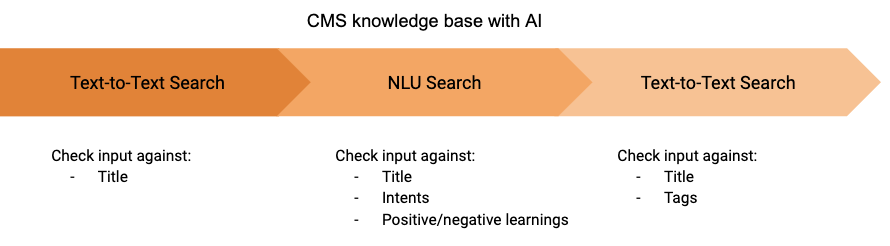
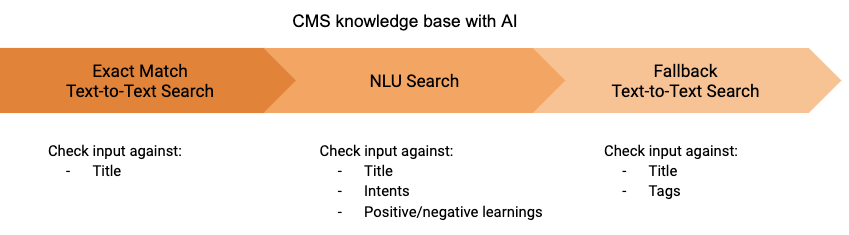
Update copy and images

diff --git a/pages/Documents/ConversationalAI/KnowledgeBase/Common/common-concepts.md b/pages/Documents/ConversationalAI/KnowledgeBase/Common/common-concepts.md
@@ -16,14 +16,14 @@ This topic contains common, conceptual information that is relevant to knowledge
 
 When you integrate a knowledge base with a bot via a [Knowledge Base integration](conversation-builder-integrations-knowledge-base-integrations.html), you specify a "mode" for the search; this determines the type of search that is performed. Possible modes include: **Intents**, **Intents Only**, and **All**.
 
-* **Intents**: When this mode is used, a text-to-text search is performed first. If a match isn't found by the first search, Knowledge Base next uses Natural Language Understanding (NLU) algorithms to match the consumer input to articles. And if a match isn't found by the NLU search, a final text-to-text search is performed as a fallback.
+* **Intents**: When this mode is used, an exact match, text-to-text search is performed first. If a match isn't found by the first search, Knowledge Base next uses Natural Language Understanding (NLU) algorithms to match the consumer input to articles. And if a match isn't found by the NLU search, a final text-to-text search is performed as a fallback.
 
     <img style="width:750px" src="img/ConvoBuilder/kb_search_modes_cms.png">
     <img style="width:750px" src="img/ConvoBuilder/kb_search_modes_lp.png">
 
 * **Intents Only**: This mode is like the Intents mode except that the final text-to-text search isn't performed as a fallback.
 
-* **All**: When this mode is used, a text-to-text search is performed:
+* **Text**: When this mode is used, a text-to-text search is performed:
     * With a [CMS knowledge base with AI](knowledge-base-cms-knowledge-bases-cms-kbs-with-liveperson-ai.html) or a [CMS knowledge base without AI](knowledge-base-cms-knowledge-bases-cms-kbs-without-liveperson-ai.html), the search algorithm checks the consumer's input against the title and tags.
     * With a [LivePerson knowledge base](knowledge-base-liveperson-knowledge-bases-introduction.html), the search algorithm checks the consumer's input against the title, summary, detail, [Knowledge Base intents](knowledge-base-liveperson-knowledge-bases-introduction.html#knowlege-base-intents-versus-domain-intents) (intent qualifiers), and tags.
 

diff --git a/pages/Documents/ConversationalAI/ConversationBuilder/Integrations/knowledge-base-integrations.md b/pages/Documents/ConversationalAI/ConversationBuilder/Integrations/knowledge-base-integrations.md
@@ -31,7 +31,7 @@ The Simple FAQ bot template provides a bot that answers users' questions by conn
         - *Phrase Search*: Select this method to use an NLU search or a text-to-text search using the phrase defined in the request parameter. This performs a search against the articles and their associated "standard" tags. You can define "standard" tags via the Knowledge Base UI or an import file.
         - *Special Tag Search*: Select this method to search for the special tags defined in the request parameter against the special tags associated with the articles. Special tags are different from standard tags. Special tags have a prescribed format; they don't support NLU searches, and they function more like attributes. Typically, special tags are used for returning products or items. You can define special tags via a CSV file or Google sheet import.
     - **Request Parameters for a Phrase search**:
-        - *mode*: Select either Intents, Intents Only, or All. For a description of each mode, see [here](knowledge-base-common-common-concepts.html#knowledge-base-searches).
+        - *mode*: Select either Intents, Intents Only, or Text. For a description of each mode, see [here](knowledge-base-common-common-concepts.html#knowledge-base-searches).
         - *threshold*: Select the minimum score that a result must have in order to be returned, either VERY GOOD, GOOD, or FAIR PLUS. For more on thresholds, see [here](knowledge-base-common-common-concepts.html#scoring-and-thresholds).
         - *phrases*:   Enter the phrase for which to search. The default value is [{$query}](conversation-builder-variables-slots.html#storing-user-responses), which represents/stores the last, complete response sent by the consumer.
         - *multipleResults*: Select the number of results to return from the knowledge base, anywhere from one to five. The default value is 1.
